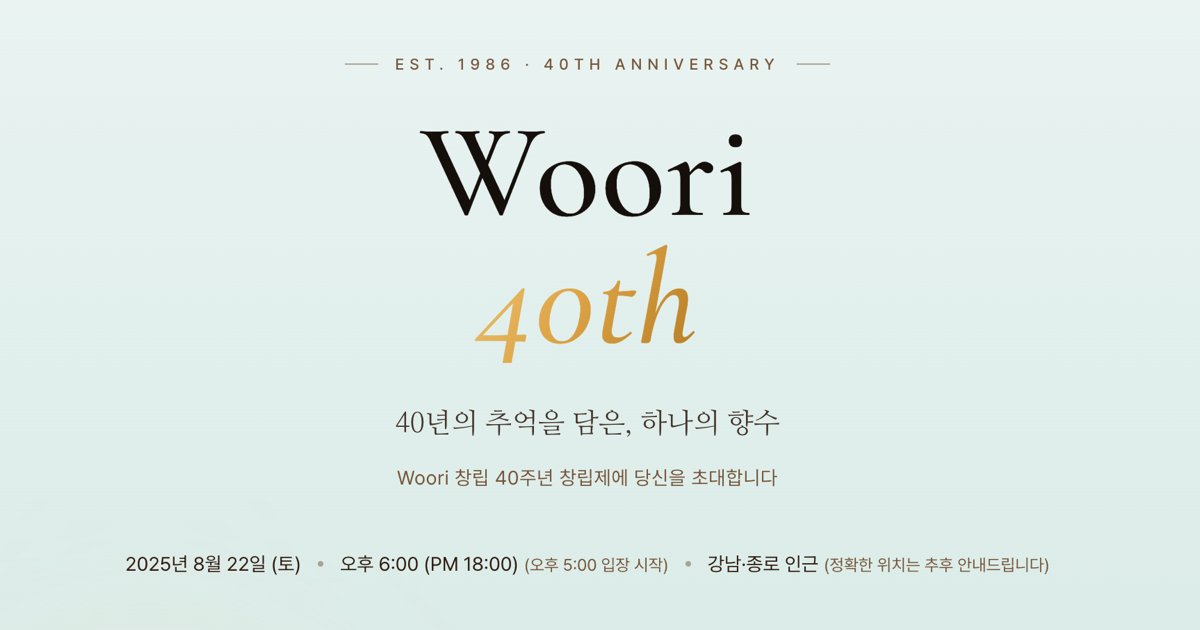
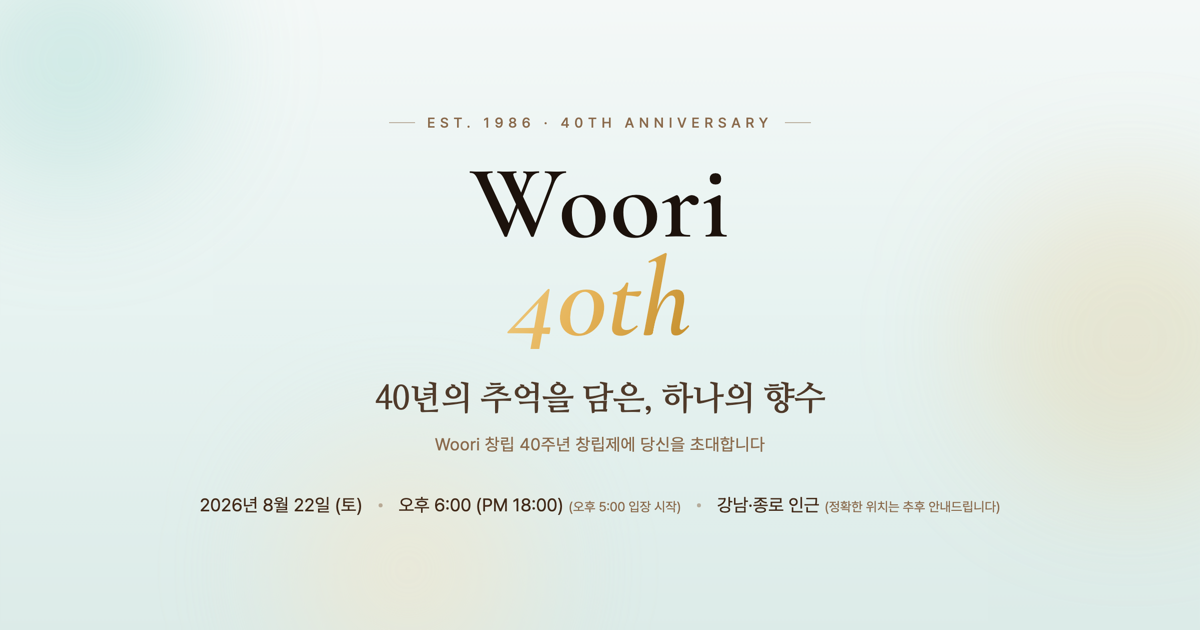
행사 연도 2025 → 2026 전체 반영
- config dateLabel, index.html 메타(description/OG/twitter), 셋업 문서 예시 날짜
- OG 이미지도 2026년 8월 22일 (토) 버전으로 재생성
- 참고: 8/22은 2025년엔 금요일이었으나 2026년엔 실제로 토요일이라 (토) 라벨도 정확해짐

diff --git a/index.html b/index.html
@@ -9,7 +9,7 @@
     <title>Woori 40th · 40년의 추억을 담은 하나의 향수</title>
     <meta
       name="description"
-      content="밴드동아리 Woori 창립 40주년 창립제에 초대합니다. 2025년 8월 22일(토) 18:00. 세 세대가 어우러진 하나의 향, 반짝이는 40주년 와인 파티."
+      content="밴드동아리 Woori 창립 40주년 창립제에 초대합니다. 2026년 8월 22일(토) 18:00. 세 세대가 어우러진 하나의 향, 반짝이는 40주년 와인 파티."
     />
 
     <!-- Open Graph -->
@@ -17,7 +17,7 @@
     <meta property="og:title" content="Woori 40th 창립제 초대장" />
     <meta
       property="og:description"
-      content="40년의 추억을 담은 하나의 향수 — 2025.08.22(토) 18:00. 지금 참가 신청하세요."
+      content="40년의 추억을 담은 하나의 향수 — 2026.08.22(토) 18:00. 지금 참가 신청하세요."
     />
     <meta property="og:locale" content="ko_KR" />
     <meta property="og:image" content="/og-image.png" />
@@ -31,7 +31,7 @@
     <meta name="twitter:title" content="Woori 40th 창립제 초대장" />
     <meta
       name="twitter:description"
-      content="40년의 추억을 담은 하나의 향수 — 2025.08.22(토) 18:00. 지금 참가 신청하세요."
+      content="40년의 추억을 담은 하나의 향수 — 2026.08.22(토) 18:00. 지금 참가 신청하세요."
     />
     <meta name="twitter:image" content="/og-image.png" />
 

diff --git a/src/config.ts b/src/config.ts
@@ -37,7 +37,7 @@ export const EVENT = {
   tagline: '40년의 추억을 담은, 하나의 향수',
 
   // 날짜/시간
-  dateLabel: '2025년 8월 22일 (토)',
+  dateLabel: '2026년 8월 22일 (토)',
   timeLabel: '오후 6:00 (PM 18:00)',
   doorsLabel: '오후 5:00 입장 시작',
 

diff --git a/GOOGLE_SHEET_SETUP.md b/GOOGLE_SHEET_SETUP.md
@@ -12,7 +12,7 @@ Google Apps Script(구글 앱스 스크립트)로 간단한 웹앱 주소(엔드
 
 | 신청시각 | 이름 | 핸드폰번호 | 기수 | 동의여부 |
 | --- | --- | --- | --- | --- |
-| 2025-08-01 14:22:10 | 홍길동 | 010-1234-5678 | 23기 | Y |
+| 2026-08-01 14:22:10 | 홍길동 | 010-1234-5678 | 23기 | Y |
 
 - 헤더 행과 `신청` 탭은 첫 제출 시 **자동으로 생성**됩니다.
 - 같은 휴대폰 번호로 다시 신청하면 **중복으로 걸러집니다.**